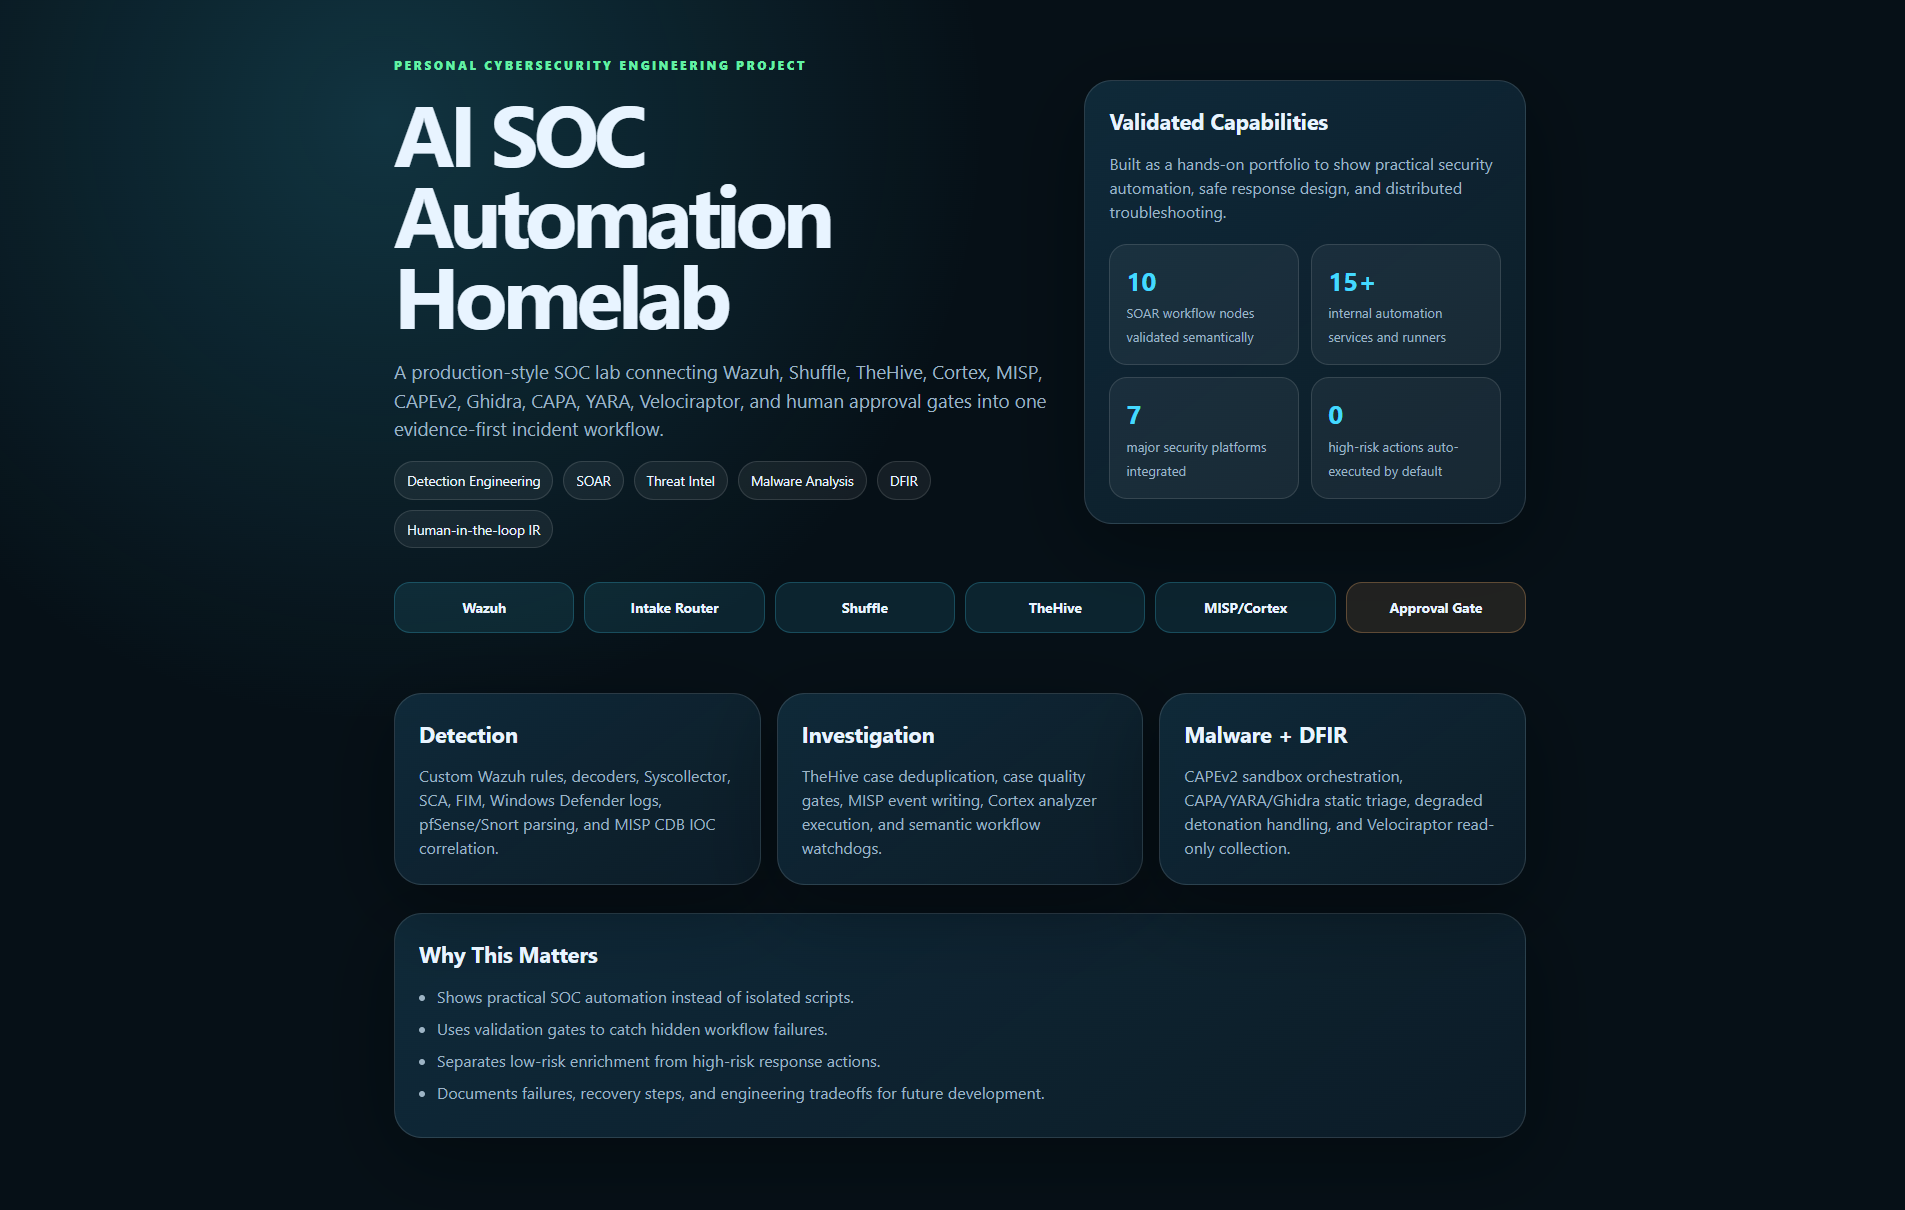
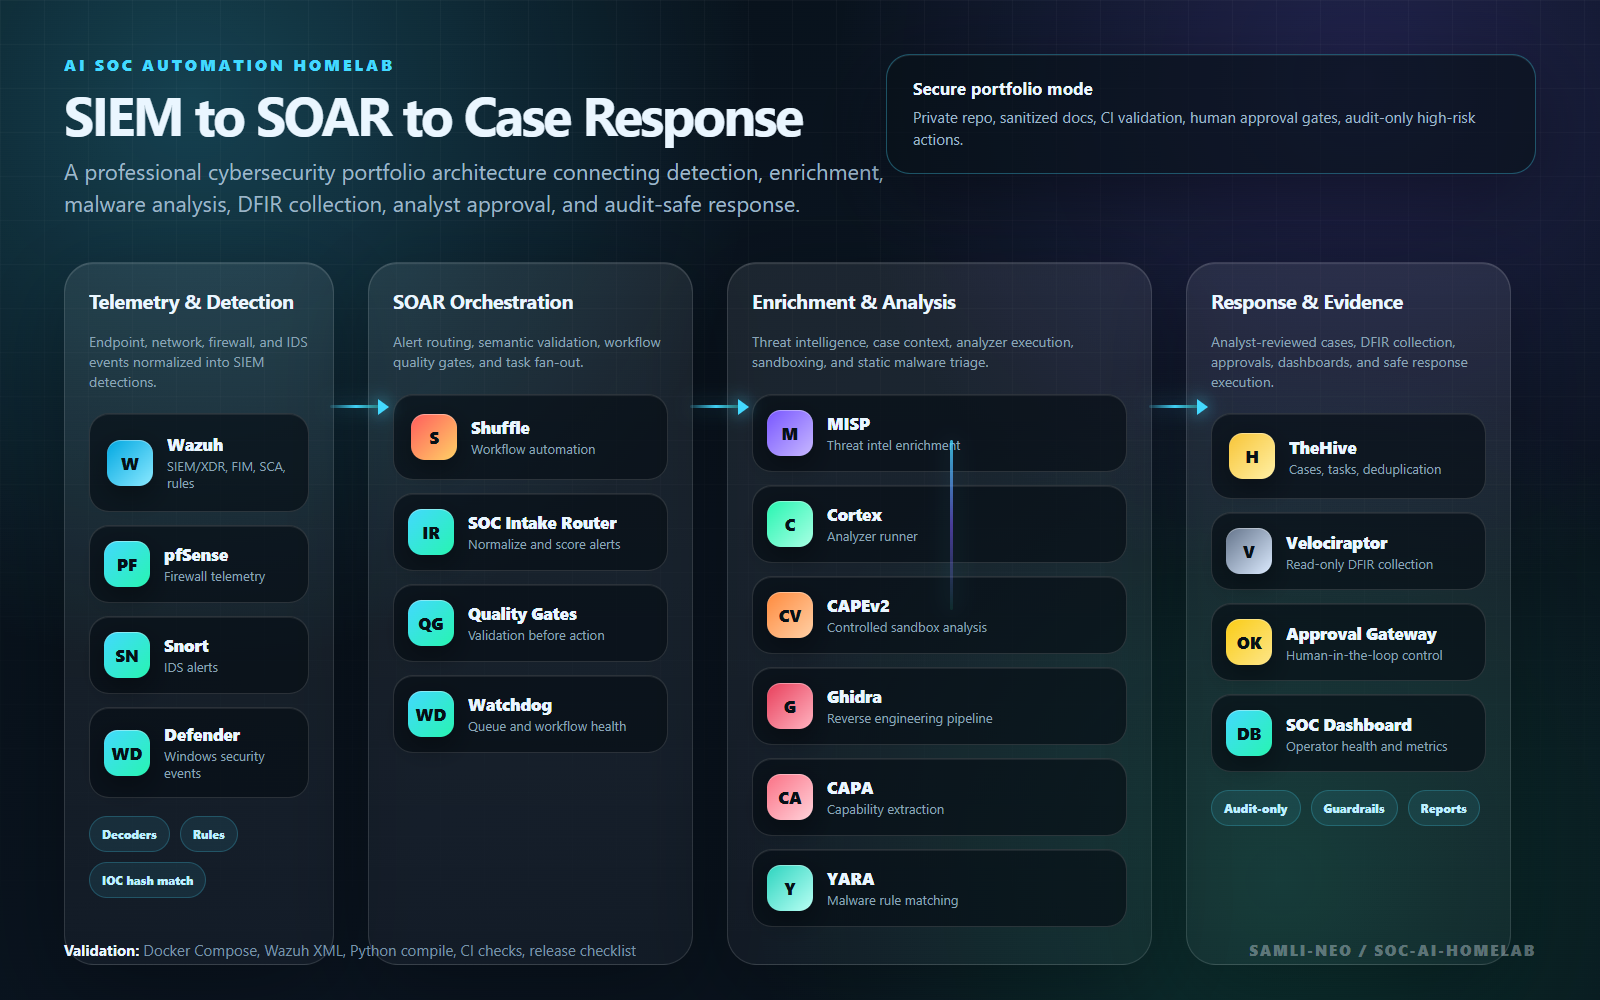
Replace portfolio preview with SOC schema

diff --git a/README.md b/README.md
@@ -18,13 +18,9 @@ This is a personal portfolio project built to demonstrate practical SOC engineer
 
 ## Architecture
 
-Portfolio landing page preview:
+Professional SOC architecture preview:
 
 ![AI SOC Automation Homelab portfolio preview](docs/assets/portfolio.png)
-
-Private GitHub repository review snapshot:
-
-![GitHub repository snapshot](docs/assets/github-repo.png)
 
 Professional Draw.io diagrams:
 
